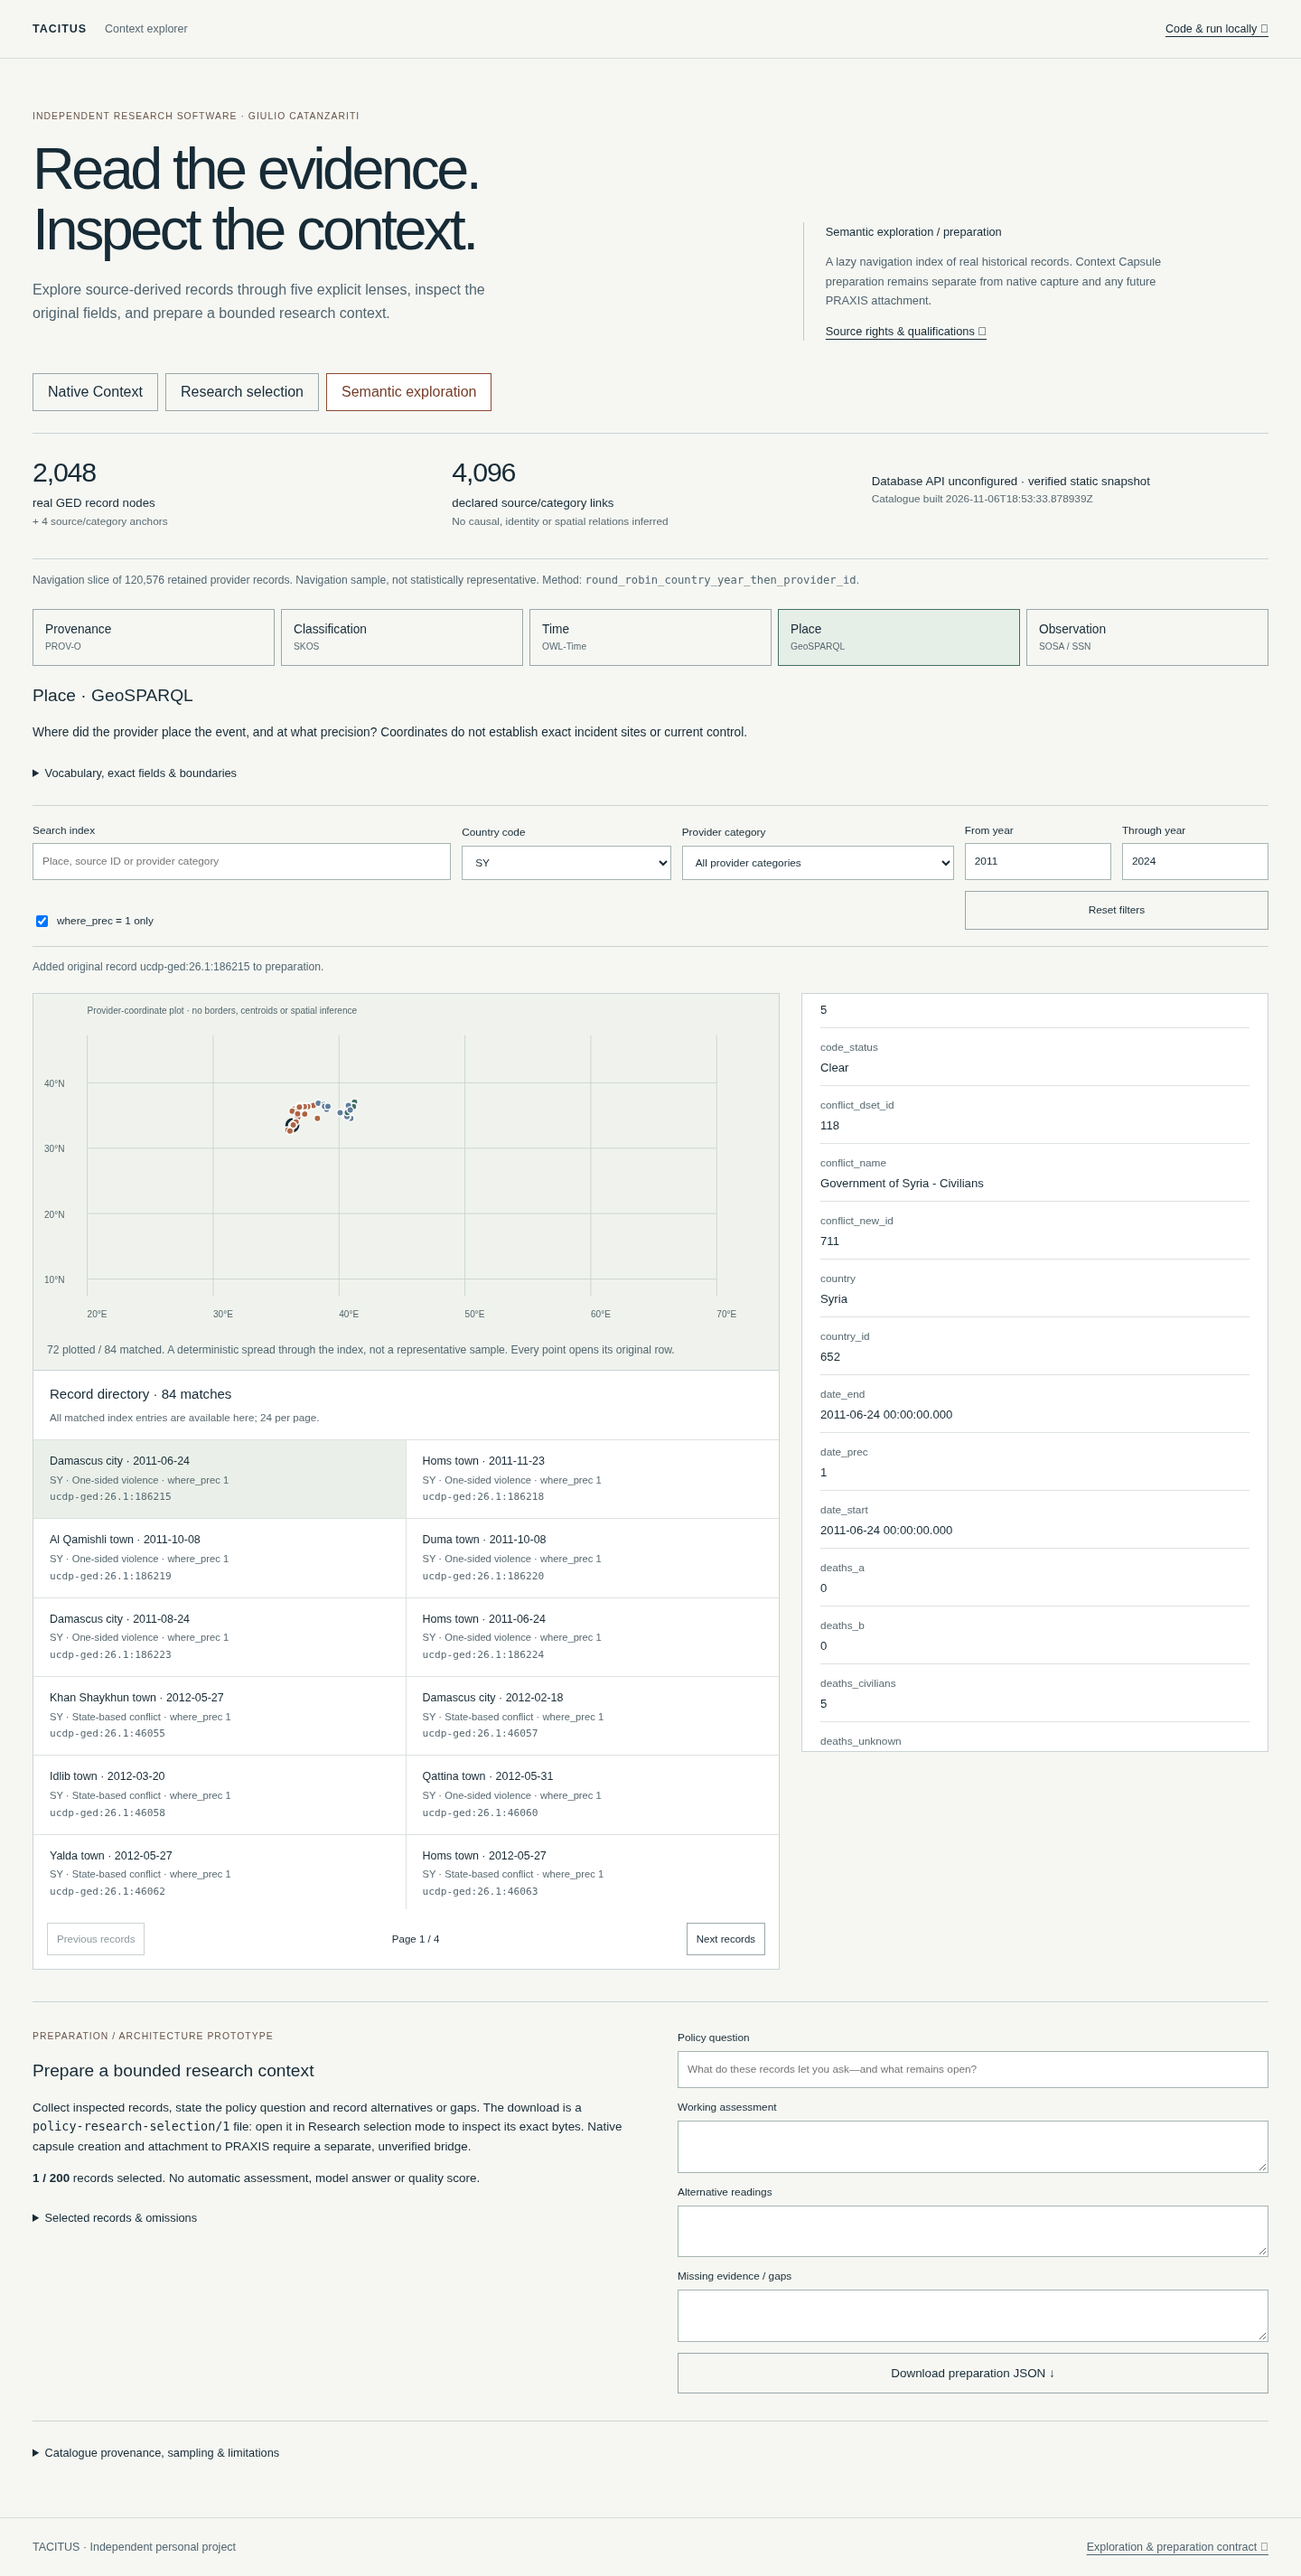
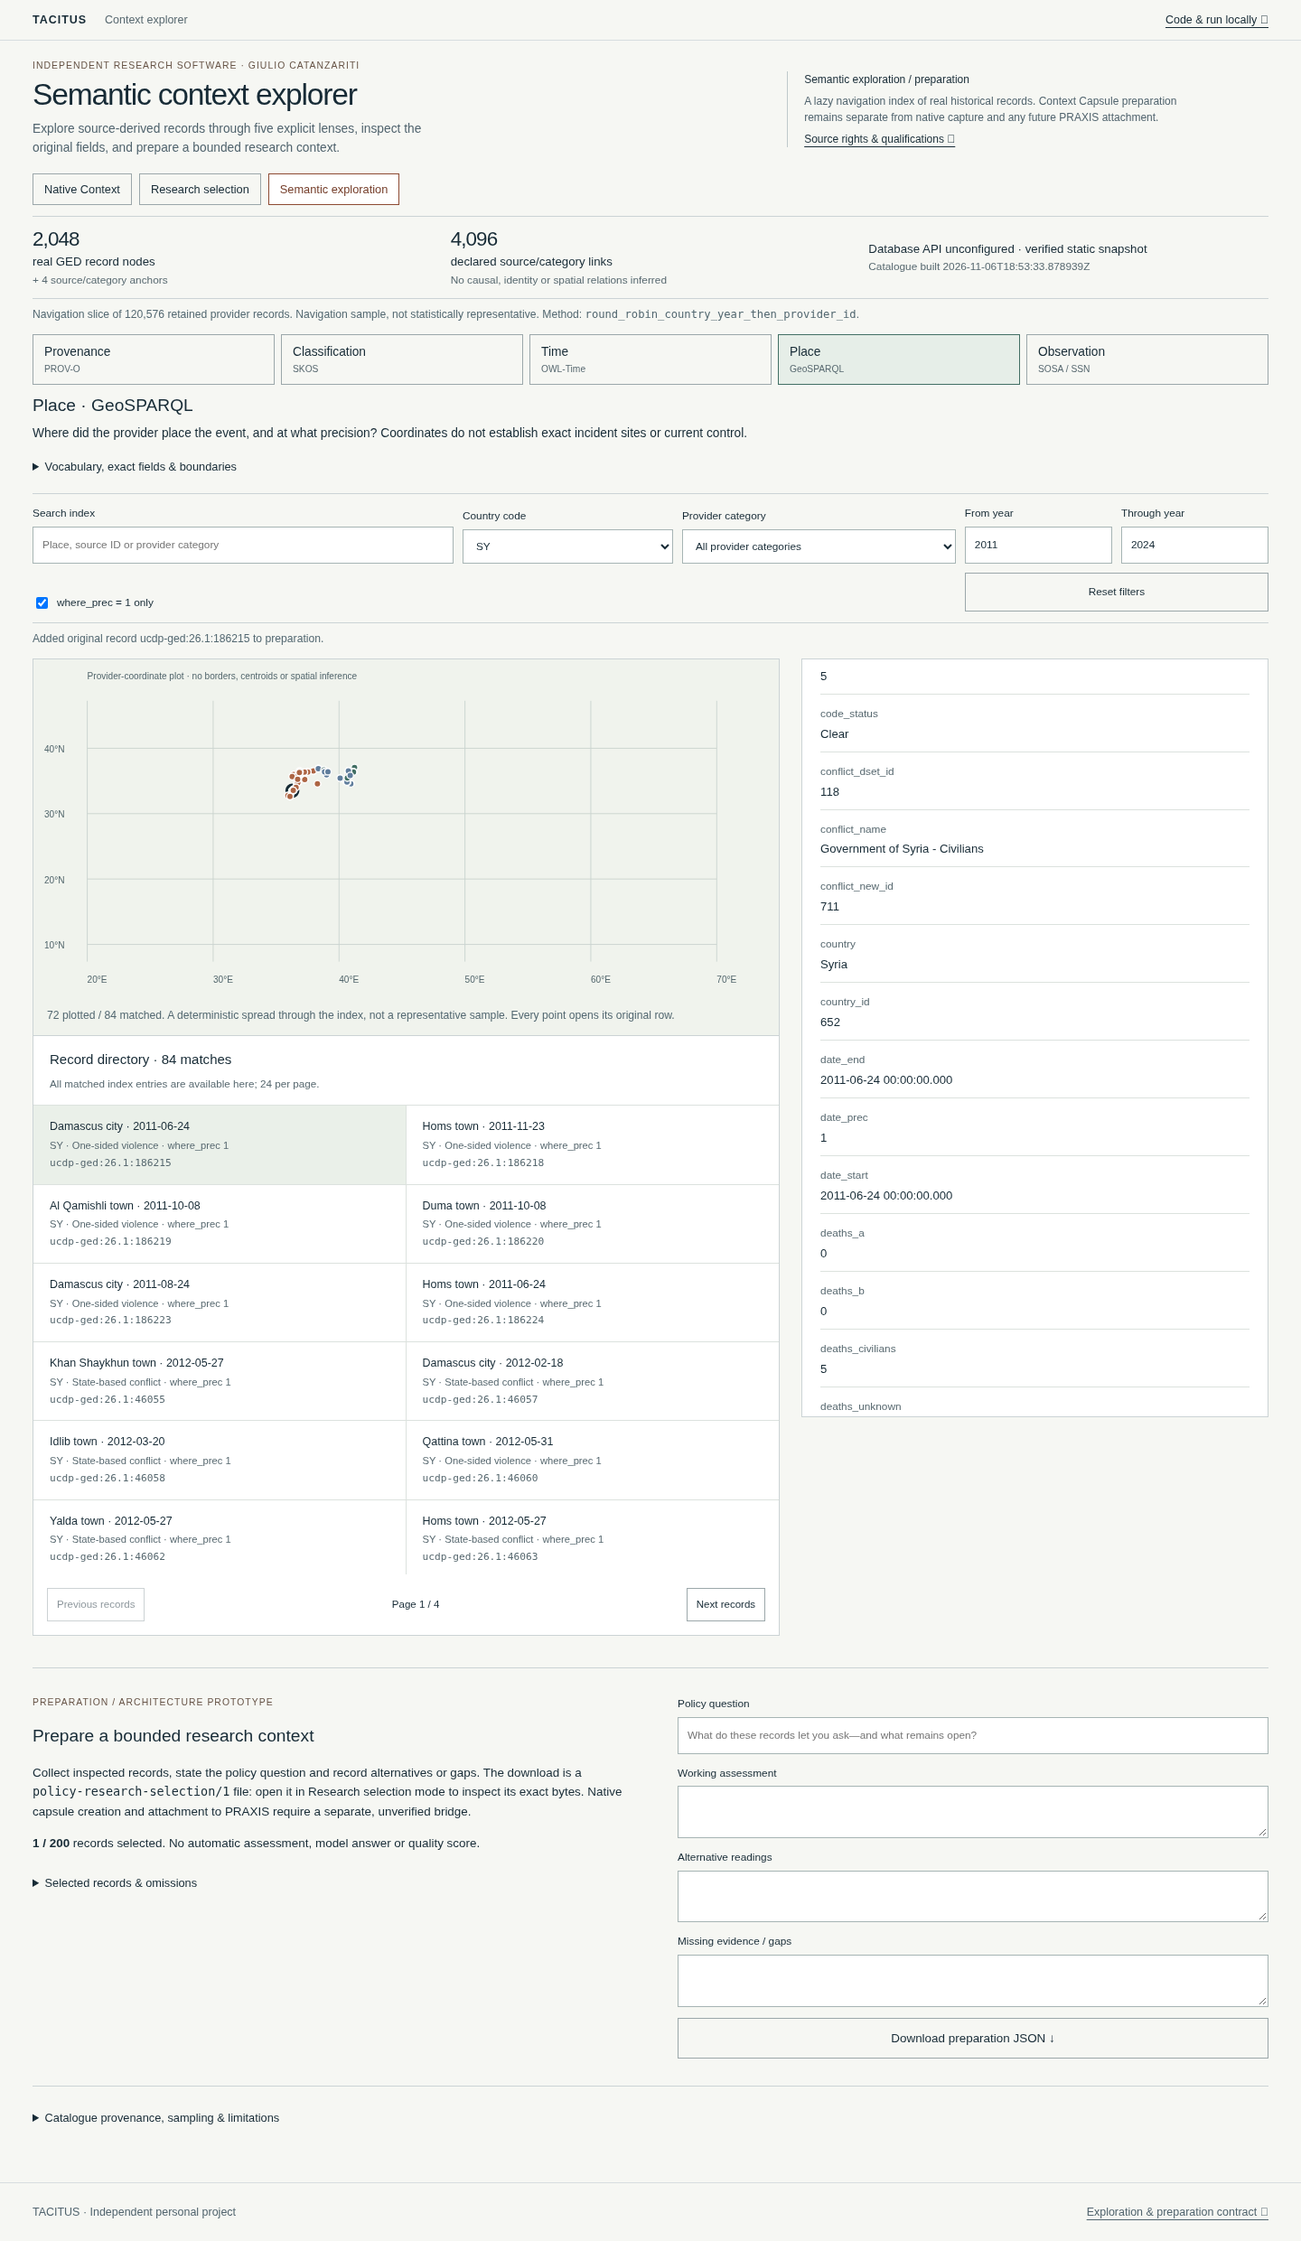
Put semantic exploration data above the fold and verify compact layouts

diff --git a/apps/workbench/src/semanticExplorer.css b/apps/workbench/src/semanticExplorer.css
@@ -23,14 +23,15 @@
 .se-stats {
   display: grid;
   grid-template-columns: 1fr 1fr 1fr;
-  gap: 25px;
+  gap: 20px;
   border-block: 1px solid #cbd3d5;
-  padding: 18px 0;
+  padding: 10px 0;
   font-size: 0.83rem;
 }
 .se-stats strong {
   display: block;
-  font-size: 1.9rem;
+  font-size: 1.4rem;
+  line-height: 1.3;
   font-weight: 400;
   letter-spacing: -0.04em;
 }
@@ -38,6 +39,9 @@
   display: block;
   color: #586970;
   font-size: 0.74rem;
+}
+.se-stats p {
+  margin-bottom: 0;
 }
 .se-database {
   align-self: center;
@@ -50,18 +54,19 @@
   line-height: 1.6;
 }
 .se-scope {
-  padding-top: 14px;
+  padding-top: 8px;
+  margin-bottom: 8px;
 }
 .se-lenses {
   display: grid;
   grid-template-columns: repeat(5, minmax(0, 1fr));
-  margin-top: 22px;
+  margin-top: 12px;
   gap: 7px;
 }
 .se-lenses button {
   font-size: 0.86rem;
   text-align: left;
-  padding: 11px 13px;
+  padding: 8px 12px;
 }
 .se-lenses small {
   display: block;
@@ -73,11 +78,18 @@
   border-color: #426f64;
 }
 .se-lens-note {
-  padding: 5px 0 14px;
+  padding: 0 0 8px;
   max-width: 100ch;
 }
 .se-lens-note p {
   font-size: 0.86rem;
+  margin-bottom: 6px;
+}
+.se-lens-note h2 {
+  margin: 10px 0 6px;
+}
+.se-lens-note summary {
+  padding-block: 6px;
 }
 .semantic-explorer details {
   font-size: 0.8rem;
@@ -89,9 +101,9 @@
 .se-filters {
   display: grid;
   grid-template-columns: 2fr 1fr 1.3fr 0.7fr 0.7fr;
-  gap: 12px;
+  gap: 10px;
   border-block: 1px solid #cbd3d5;
-  padding-block: 18px;
+  padding-block: 12px;
   align-items: end;
 }
 .se-filters label,
@@ -127,13 +139,14 @@
   grid-column: 4/6;
 }
 .se-status {
-  padding-top: 13px;
+  padding-top: 8px;
+  margin-bottom: 8px;
 }
 .se-workspace {
   display: grid;
   grid-template-columns: minmax(0, 1.6fr) minmax(0, 1fr);
   gap: 24px;
-  margin-top: 18px;
+  margin-top: 12px;
   align-items: start;
 }
 .se-navigation {

diff --git a/apps/workbench/src/showcase.tsx b/apps/workbench/src/showcase.tsx
@@ -122,7 +122,9 @@ function App() {
       <a className="skip" href="#explorer">
         Skip to explorer
       </a>
-      <header className="showcase-header">
+      <header
+        className={`showcase-header${mode === "semantic" ? " showcase-header-semantic" : ""}`}
+      >
         <a href="#explorer" className="brand">
           TACITUS<span>Context explorer</span>
         </a>
@@ -134,16 +136,24 @@ function App() {
           Code & run locally ↗
         </a>
       </header>
-      <main className="showcase-main">
+      <main
+        className={`showcase-main${mode === "semantic" ? " showcase-main-semantic" : ""}`}
+      >
         <section className="showcase-intro">
           <div>
             <p className="kicker">
               Independent research software · Giulio Catanzariti
             </p>
             <h1>
-              Read the evidence.
-              <br />
-              Inspect the context.
+              {mode === "semantic" ? (
+                "Semantic context explorer"
+              ) : (
+                <>
+                  Read the evidence.
+                  <br />
+                  Inspect the context.
+                </>
+              )}
             </h1>
             <p>
               {mode === "native" ? (

diff --git a/apps/workbench/src/showcase.css b/apps/workbench/src/showcase.css
@@ -246,3 +246,48 @@ select:focus-visible {
     font-size: 2.9rem;
   }
 }
+
+.showcase-header-semantic {
+  padding-block: 15px;
+}
+.showcase-main-semantic .showcase-intro {
+  gap: 36px;
+  padding: 22px 0 18px;
+  align-items: center;
+}
+.showcase-main-semantic .showcase-intro .kicker {
+  margin: 0 0 8px;
+}
+.showcase-main-semantic .showcase-intro h1 {
+  font-size: clamp(1.6rem, 2.4vw, 2.1rem);
+  letter-spacing: -0.035em;
+  line-height: 1.16;
+  margin: 0 0 8px;
+}
+.showcase-main-semantic .showcase-intro > div > p:last-child {
+  font-size: 0.86rem;
+  line-height: 1.5;
+  margin: 0;
+}
+.showcase-main-semantic .showcase-intro aside {
+  padding-left: 18px;
+  max-width: 460px;
+  font-size: 0.75rem;
+  line-height: 1.5;
+}
+.showcase-main-semantic .showcase-intro aside p {
+  margin: 6px 0;
+}
+.showcase-main-semantic .showcase-format-switch {
+  margin-bottom: 12px;
+}
+.showcase-main-semantic .showcase-format-switch button {
+  padding: 9px 12px;
+  font-size: 0.8rem;
+}
+@media (max-width: 720px) {
+  .showcase-main-semantic .showcase-intro {
+    gap: 16px;
+    padding-top: 20px;
+  }
+}

diff --git a/apps/workbench/docs/semantic-verification.md b/apps/workbench/docs/semantic-verification.md
@@ -66,3 +66,19 @@ improvement is certified by these UI tests. The downloadable artifact is
 `policy-research-selection/1` preparation, not a native capsule.
 
 No commit, push or deployment was performed in this implementation pass.
+
+## Compact visual follow-up
+
+After review of `3def176`, only the semantic heading/header and surrounding
+spacing were compacted; data and behavior contracts are unchanged. The useful
+graph now begins at **730px in a 1440 × 900 viewport**, and **726.66px at
+1280 × 900**. Native Context and Research selection retain their original intro
+dimensions. All four actual captures above were refreshed.
+
+TypeScript checking, the static build and the focused semantic browser suite
+passed. The browser test now explicitly requires the desktop graph to start
+within the first 900px and guards against spacing leaking into Native Context.
+Full-page axe checks with `wcag2a`, `wcag2aa` and `wcag21aa` reported **zero
+violations** at 1440, 1280 and 390 pixels, with no horizontal overflow or browser
+errors. The complete 84-case suite above was not repeated for this visual-only
+follow-up; its five native acceptance skips remain unchanged.
